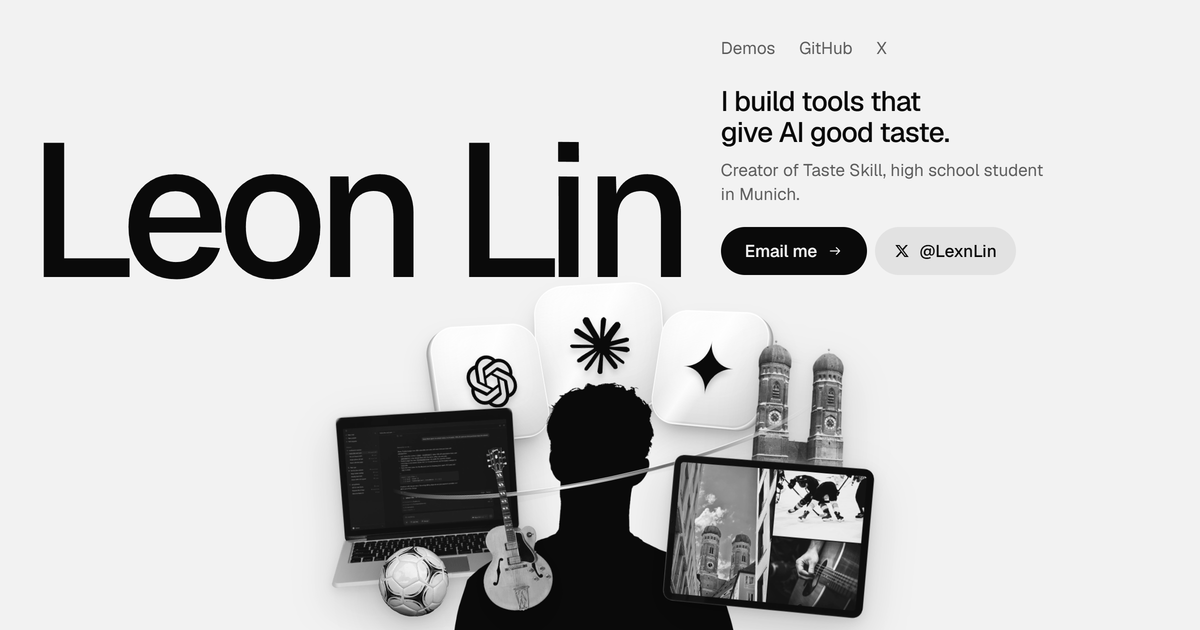
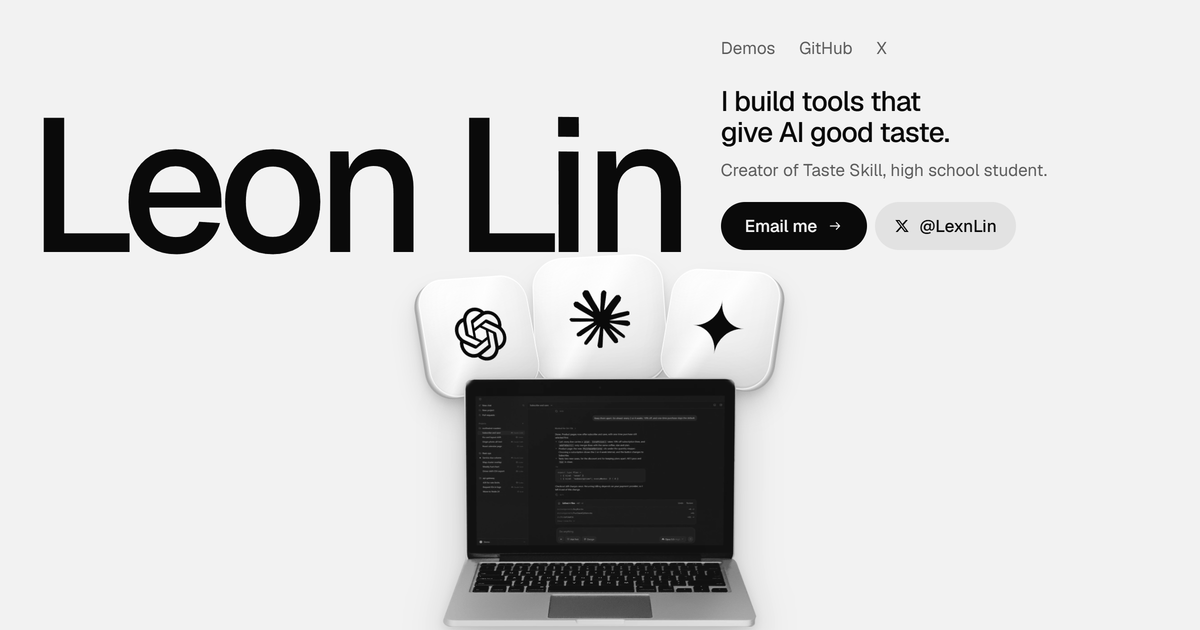
New hero: just the laptop with TasteCode and the three model tiles
Silhouette, guitar, football, tablet (hockey) and towers removed; unused images deleted;
new og.png.

diff --git a/src/scripts/intro.ts b/src/scripts/intro.ts
@@ -5,7 +5,7 @@
  * section as one stage, 85svh of scroll long (an inline script at the top of the intro sets the
  * class before it is first laid out, so the page never jumps; this module confirms it).
  * Scrolling, the name and the intro rise away, everything else in the
- * collage flies outward, the tiles settle back toward Leon's shoulders and, while he sinks, come
+ * laptop drops away, the tiles settle back a little and come
  * up beside the about text as one cluster, thick and turned; the text and the photographs come
  * in with them. Through the rest of the run the cluster keeps drifting up a little, so
  * nothing stands frozen before the page moves on. Everything is set from the progress, so
@@ -26,7 +26,6 @@ function init(intro: HTMLElement) {
   const hero = intro.querySelector<HTMLElement>(".hero")!;
   const about = intro.querySelector<HTMLElement>("[data-about]")!;
   const collage = intro.querySelector<HTMLElement>("[data-collage]")!;
-  const me = collage.querySelector<HTMLElement>(".me")!;
   const pieces = Array.from(collage.querySelectorAll<HTMLElement>(".piece"));
   const tiles = pieces.filter((p) => p.classList.contains("is-tile"));
   const flying = pieces.filter((p) => !p.classList.contains("is-tile"));
@@ -52,7 +51,6 @@ function init(intro: HTMLElement) {
   // The timeline, in scene progress. The phases overlap, so no frame is left half empty.
   const DIP = [0, 0.12]; // the tiles settle back toward his shoulders
   const RISE = [0.04, 0.68]; // and, already growing, come up to the cluster
-  const SINK = [0.04, 0.26]; // Leon sinks below the edge, gone as the about text comes in
   const HERE = 0.14; // the about text comes in
   const LANDED = 0.68; // the tiles are in place and float on their own
   // Afloat, once landed: each tile sinks a few pixels and comes back up, out of step with the
@@ -116,7 +114,7 @@ function init(intro: HTMLElement) {
 
   /** Reads every start and end place with all scene transforms cleared. */
   function measure() {
-    const moved = [me, heroTop, ...pieces];
+    const moved = [heroTop, ...pieces];
     for (const el of moved) el.style.transform = "";
     const origin = stage.getBoundingClientRect();
     const c = collage.getBoundingClientRect();
@@ -158,7 +156,7 @@ function init(intro: HTMLElement) {
     const W = innerWidth;
     const a = easeOut(seg(p, 0, 0.3));
     const dip = ease(seg(p, DIP[0], DIP[1]));
-    // The rise is front-loaded (the square root), so the tiles visibly grow while Leon sinks; it
+    // The rise is front-loaded (the square root), so the tiles visibly grow as the laptop drops away; it
     // still lands softly.
     const b = ease(Math.sqrt(seg(p, RISE[0], RISE[1])));
     // After landing, the cluster and its text keep drifting up through the rest of the run.
@@ -169,12 +167,6 @@ function init(intro: HTMLElement) {
     heroTop.style.transform = `translate3d(0, ${(-a * H * 0.32).toFixed(2)}px, 0)`;
     heroTop.style.opacity = String(clamp(1 - seg(p, 0, 0.2) * 1.1));
 
-    // Leon stands while the tiles dip behind him, then sinks below the edge.
-    const sink = ease(seg(p, SINK[0], SINK[1]));
-    me.style.transform = `translate3d(0, ${(sink * 105).toFixed(2)}%, 0)`;
-    const mo = clamp(1 - seg(p, 0.18, SINK[1]));
-    me.style.opacity = String(mo);
-    me.style.visibility = mo < 0.01 ? "hidden" : "";
 
     for (const f of scene.flyers) {
       const k = easeOut(seg(p, 0, 0.28));
@@ -262,7 +254,7 @@ function init(intro: HTMLElement) {
     if (on !== scene.on) {
       scene.on = on;
       if (!on) {
-        for (const el of [me, heroTop, ...pieces]) {
+        for (const el of [heroTop, ...pieces]) {
           el.style.transform = "";
           el.style.opacity = "";
           el.style.visibility = "";
